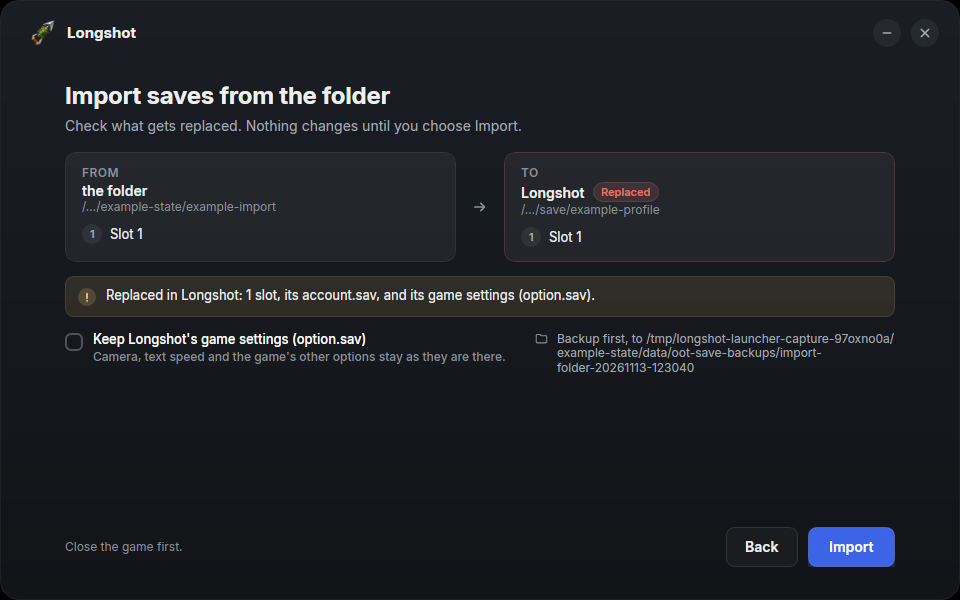
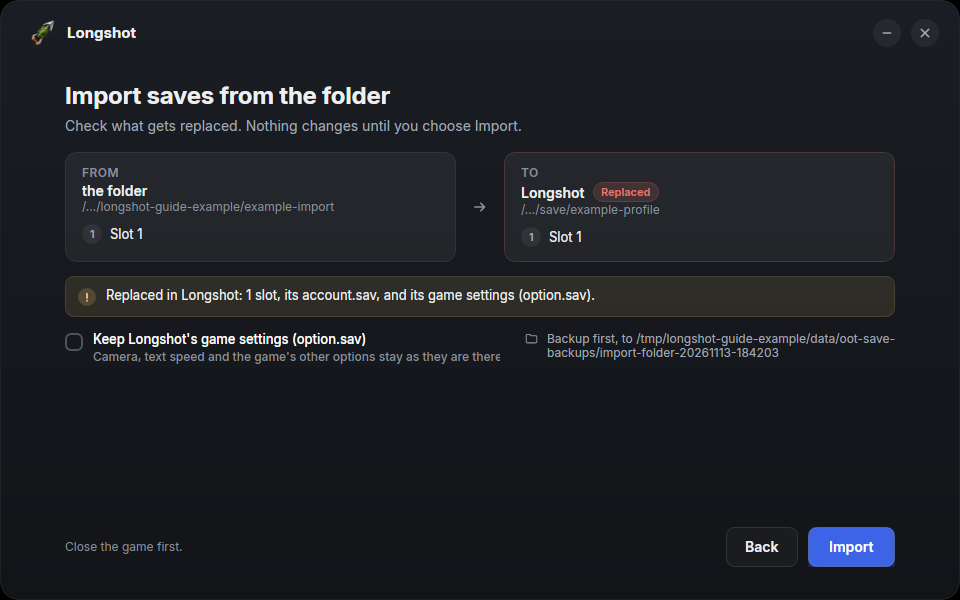
fix(docs): preserve Launcher capture build policy
Stage and fingerprint the Launcher statistics opt-out and explicit NuGet configuration. Recapture neutral example paths, guard fixture ownership, document contributor review, restore Frizti, and retain main's complete HDR wording. Review the settings image against rebased menu sources.

Assisted-by: Codex (OpenAI)

Changed region(s): [[0.5625, 0.54, 0.9375, 0.63], [0.0938, 0.33, 0.3438, 0.36]]

diff --git a/scripts/screenshots/capture_launcher.py b/scripts/screenshots/capture_launcher.py
@@ -1,6 +1,7 @@
 #!/usr/bin/env python3
 """Render real Launcher views in memory using synthetic state; no desktop or game needed."""
 import argparse
+from contextlib import contextmanager
 import hashlib
 import json
 import os
@@ -10,6 +11,25 @@ import subprocess
 import tempfile
 
 ROOT = Path(__file__).resolve().parents[2]
+BUILD_CONFIG = ('Directory.Build.props', 'Directory.Build.targets', 'Directory.Packages.props', 'NuGet.Config')
+
+
+def capture_inputs(tracked):
+    missing = set(BUILD_CONFIG) - set(tracked)
+    if missing:
+        raise ValueError('Launcher capture requires tracked build configuration: ' + ', '.join(sorted(missing)))
+    return sorted(f for f in tracked if f.startswith(('App/', 'Core/')) or f in BUILD_CONFIG)
+
+
+@contextmanager
+def example_state(path):
+    # A stable, neutral path is visible in the real views. Never reuse or remove
+    # an existing directory: another capture or a user's data may own it.
+    path.mkdir()
+    try:
+        yield path
+    finally:
+        shutil.rmtree(path)
 
 
 def run(args, **kwargs):
@@ -24,7 +44,10 @@ def main():
     a = p.parse_args()
     source, output = a.source.resolve(), a.output.resolve()
     tracked = run(['git', '-C', str(source), 'ls-files'], capture_output=True).stdout.splitlines()
-    inputs = sorted(f for f in tracked if f.startswith(('App/', 'Core/')) or f in ('Directory.Build.props', 'Directory.Packages.props'))
+    try:
+        inputs = capture_inputs(tracked)
+    except ValueError as exc:
+        p.error(str(exc))
     if run(['git', '-C', str(source), 'diff', '--name-only', 'HEAD', '--', *inputs], capture_output=True).stdout:
         p.error('Launcher capture inputs must match the named clean source revision')
     hashes = {f: hashlib.sha256((source / f).read_bytes()).hexdigest() for f in inputs}
@@ -65,11 +88,15 @@ def main():
         env = dict(os.environ, DOTNET_CLI_HOME=str(stage / 'dotnet-home'), DOTNET_CLI_TELEMETRY_OPTOUT='1',
                    DOTNET_GENERATE_ASPNET_CERTIFICATE='false',
                    NUGET_PACKAGES='/tmp/longshot-guide-nuget')
-        run([a.dotnet, 'restore', str(stage / 'App/LongshotLauncher.csproj'), '--locked-mode'], env=env)
-        run([a.dotnet, 'restore', str(fixture / 'Capture.csproj'), '--locked-mode'], env=env)
+        # Preserve both the Launcher's AvaloniaStats opt-out target and its feed
+        # policy. Explicit config excludes ambient machine/user NuGet sources.
+        restore_options = ['--locked-mode', '--configfile', str(stage / 'NuGet.Config')]
+        run([a.dotnet, 'restore', str(stage / 'App/LongshotLauncher.csproj'), *restore_options], env=env)
+        run([a.dotnet, 'restore', str(fixture / 'Capture.csproj'), *restore_options], env=env)
         shutil.copyfile(fixture / 'packages.lock.json', output / 'launcher-packages.lock.json')
         run([a.dotnet, 'build', str(fixture / 'Capture.csproj'), '--no-restore', '-c', 'Release', '-p:LongshotTag=v1.0.0-rc.3'], env=env)
-        run([a.dotnet, str(fixture / 'bin/Release/net10.0/Capture.dll'), str(stage / 'example-state'), str(output)], env=env)
+        with example_state(Path(tempfile.gettempdir()) / 'longshot-guide-example') as state:
+            run([a.dotnet, str(fixture / 'bin/Release/net10.0/Capture.dll'), str(state), str(output)], env=env)
     metadata = {'source_revision': revision, 'source_files': hashes,
                 'fixture_files': {f: hashlib.sha256((ROOT / f).read_bytes()).hexdigest() for f in
                                   ('scripts/screenshots/LauncherCapture.cs', 'scripts/screenshots/capture_launcher.py')},

diff --git a/tests/test_launcher_capture.py b/tests/test_launcher_capture.py
@@ -1,0 +1,47 @@
+"""Capture isolation and build-policy regressions; no .NET SDK or Launcher needed."""
+import importlib.util
+from pathlib import Path
+import tempfile
+import unittest
+
+ROOT = Path(__file__).resolve().parents[1]
+spec = importlib.util.spec_from_file_location('launcher_capture', ROOT / 'scripts/screenshots/capture_launcher.py')
+capture = importlib.util.module_from_spec(spec)
+spec.loader.exec_module(capture)
+
+
+class LauncherCapture(unittest.TestCase):
+    def test_build_policy_is_in_staged_and_fingerprinted_inputs(self):
+        files = ['App/App.axaml', 'Core/Saves.cs', 'Directory.Build.props', 'Directory.Build.targets',
+                 'Directory.Packages.props', 'NuGet.Config']
+        self.assertEqual(capture.capture_inputs(files + ['Tests/Test.cs', 'README.md']), sorted(files))
+
+    def test_missing_telemetry_or_feed_policy_stops_capture(self):
+        for missing in ('Directory.Build.targets', 'NuGet.Config'):
+            with self.subTest(missing=missing), self.assertRaisesRegex(ValueError, missing):
+                capture.capture_inputs([f for f in capture.BUILD_CONFIG if f != missing])
+
+    def test_existing_state_is_preserved(self):
+        with tempfile.TemporaryDirectory() as tmp:
+            state = Path(tmp) / 'longshot-guide-example'
+            state.mkdir()
+            sentinel = state / 'keep.txt'
+            sentinel.write_text('pre-existing data')
+            with self.assertRaises(FileExistsError):
+                with capture.example_state(state):
+                    self.fail('existing state must not be used')
+            self.assertEqual(sentinel.read_text(), 'pre-existing data')
+
+    def test_owned_state_is_cleaned_after_failed_capture(self):
+        with tempfile.TemporaryDirectory() as tmp:
+            state = Path(tmp) / 'longshot-guide-example'
+            with self.assertRaisesRegex(RuntimeError, 'capture failed'):
+                with capture.example_state(state) as reserved:
+                    self.assertEqual(reserved, state)
+                    (state / 'fixture.txt').write_text('synthetic')
+                    raise RuntimeError('capture failed')
+            self.assertFalse(state.exists())
+
+
+if __name__ == '__main__':
+    unittest.main()

diff --git a/scripts/screenshots/LauncherCapture.cs b/scripts/screenshots/LauncherCapture.cs
@@ -15,8 +15,8 @@ static class LauncherCapture
     {
         if (args.Length != 2) throw new ArgumentException("Expected an empty state directory and output directory.");
         string state = Path.GetFullPath(args[0]), output = Path.GetFullPath(args[1]);
-        if (Directory.Exists(state)) throw new InvalidOperationException("State directory must not already exist.");
-        Directory.CreateDirectory(state);
+        if (!Directory.Exists(state) || Directory.EnumerateFileSystemEntries(state).Any())
+            throw new InvalidOperationException("State directory must be the empty directory reserved by the capture helper.");
         Directory.CreateDirectory(output);
         Environment.SetEnvironmentVariable("LONGSHOT_LAUNCHER_OFFLINE", "1");
         Environment.SetEnvironmentVariable("LONGSHOT_LAUNCHER_REDUCED_MOTION", "1");

diff --git a/docs/images/guide/README.md b/docs/images/guide/README.md
@@ -157,6 +157,15 @@ Use `--dotnet /path/to/dotnet` when needed. The first run restores packages from
 cache under `/tmp/longshot-guide-nuget`. Both the Launcher and fixture package locks are enforced. No game, save,
 window server or installed Launcher is required. The temporary application build is deleted after capture.
 
+The staged source includes and fingerprints `Directory.Build.targets`, preserving the Launcher's empty
+`AvaloniaStats` target that disables Avalonia build statistics. This is separate from the .NET CLI telemetry
+opt-out. Both restores explicitly use the staged `NuGet.Config`, preserving the nuget.org-only feed policy
+instead of inheriting machine/user feeds. Missing tracked build configuration stops the helper.
+
+Synthetic state uses the fixed `longshot-guide-example` directory under the system temporary directory so the
+real UI shows neutral paths. The helper exclusively creates it, refuses an existing directory, and removes only
+the directory it created when capture ends. It never repaints or substitutes displayed paths in an image.
+
 The helper builds a temporary copy of clean tracked Launcher sources. Two explicit adapters in that copy prevent
 private game-file discovery and replace the host hardware probe with illustrative inputs to the real requirements
 evaluator (16 GB RAM, 12 CPU threads, AVX2, 100 GB free, Vulkan 1.3, 8 GB VRAM and mesh shaders). They do not change

diff --git a/README.md b/README.md
@@ -404,7 +404,7 @@ HDR, Detail, and GPU and memory (last: the rows to change when something is wron
 | | HDR paper white | 80 to 400 nits, in steps of 10 (while HDR is on) | 200 nits |
 | | HDR peak brightness | 400 to 4000 nits, in steps of 100 (while HDR is on) | 1000 nits |
 | | HDR contrast | 50% to 200% around mid grey, in steps of 5 (while HDR is on) | 100% |
-| | HDR tone mapper | Vanilla (the game's curve), PsychoV35 (RenoDX's; shown only with HDR set to Native. DLSS/DLAA with their NVIDIA frame-generation inputs, and AMD FSR 4, can be tried with `RX_VK_PSYCHOV35_DLSS=1`; FSR 3.1, TAAU and Upscaler Off still fall back to the game's network) | Vanilla |
+| | HDR tone mapper | Vanilla (the game's curve), PsychoV35 (RenoDX's; with HDR set to Native. DLSS/DLAA with their NVIDIA frame-generation inputs, and AMD FSR 4, can be tried with `RX_VK_PSYCHOV35_DLSS=1`; FSR 3.1, TAAU and Upscaler Off still fall back to the game's network) | Vanilla |
 | | Anisotropic filtering | Game's, 2x, 4x, 8x, 16x | 16x |
 | | GPU device | Auto, or each graphics card by name (after a restart) | Auto |
 | | VRAM budget | Auto, 3.6, 4.8, 6, 7.5, 9, 11 GB (2.2 GB only from the Minimum (4GB) preset); a quality preset sets it | Auto |

diff --git a/docs/saves.md b/docs/saves.md
@@ -34,7 +34,7 @@ Linux builds share saves; Windows builds have separate saves in this launcher re
 
 1. Start Longshot once and save, so its save folder exists, then quit it.
 2. On the **Saves** page, choose **From an emulator…**. The launcher lists the emulators whose saves it found on this
-   PC (Lichii, Eden, Eglantine, Orchid, PokeDinner, Fritzi and NX2navi), with their slots and save times.
+   PC (Lichii, Eden, Eglantine, Orchid, PokeDinner, Frizti and NX2navi), with their slots and save times.
 3. Pick the emulator and, if asked, the profile you play on. If it isn't listed (a portable install, a copy on another
    drive), select **Another folder…**. Press **Continue**, then pick the save folder, or a folder that holds one.
 

diff --git a/CONTRIBUTING.md b/CONTRIBUTING.md
@@ -274,6 +274,11 @@ for scripted input, screenshots, frame dumps and profiles are in the development
 
 ## Commits and pull requests
 
+Changes to recorded menu, Launcher, font or shared renderer inputs also trigger the
+[user-guide screenshot source review](docs/images/guide/README.md#developer-maintenance-plan).
+Run the check and review the affected image and written steps before updating its fingerprints;
+even an implementation-only header change needs a recorded decision to retain or recapture it.
+
 Every pull request uses the [pull request template](.forgejo/pull_request_template.md): its sections are the
 description, its checklist stays whole, and `forge.py pr ready` checks it before review.
 
